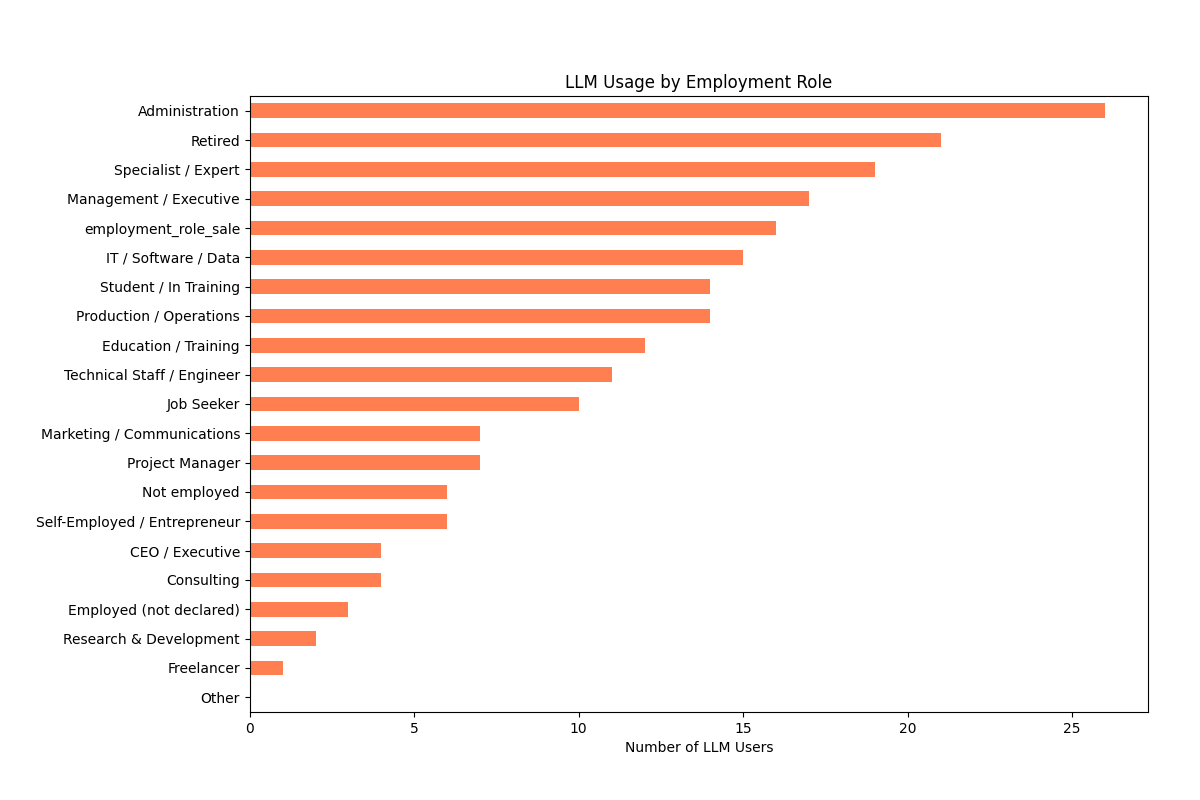
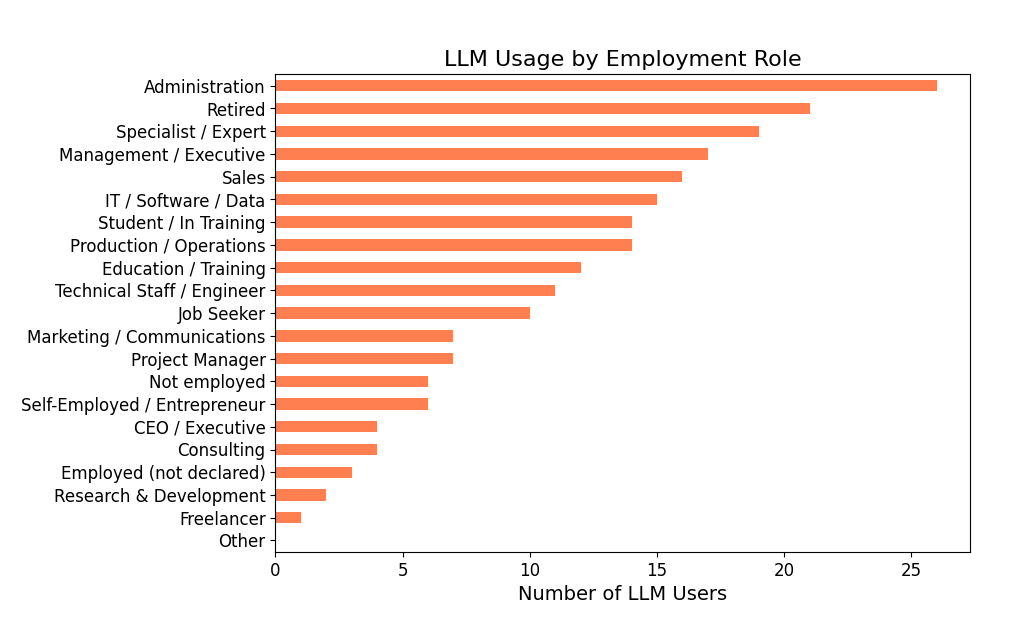
update employment diagram axis

Changed region(s): [[0.0, 0.0613, 0.9302, 0.9806], [0.7132, 0.1839, 0.7442, 0.2145]]

diff --git a/diagrams/education_llm_usage.py b/diagrams/education_llm_usage.py
@@ -4,7 +4,7 @@ import sqlite3
 import numpy as np
 
 # --- DB CONNECTION ---
-conn = sqlite3.connect("database.db")
+conn = sqlite3.connect("../survey/database.db")
 
 # --- LOAD DATA ---
 df = pd.read_sql("SELECT * FROM data_project", conn)
@@ -32,7 +32,7 @@ employment_role_labels = {
     "employment_role_expert": "Specialist / Expert",
     "employment_role_project_manager": "Project Manager",
     "employment_role_ingenieur": "Technical Staff / Engineer",
-    "employment_role_sales": "Sales",
+    "employment_role_sale": "Sales",
     "employment_role_marketing": "Marketing / Communications",
     "employment_role_administration": "Administration",
     "employment_role_research": "Research & Development",
@@ -82,8 +82,10 @@ role_counts = df[roles].sum().sort_values(ascending=False)
 role_counts.index = role_counts.index.map(lambda x: employment_role_labels.get(x, x))
 
 role_counts.plot(kind='barh', figsize=(12,8), color='coral')
-plt.xlabel("Number of LLM Users")
-plt.title("LLM Usage by Employment Role")
+plt.xlabel("Number of LLM Users", fontsize=14)
+plt.title("LLM Usage by Employment Role", fontsize=16)
+plt.xticks(fontsize=12)
+plt.yticks(fontsize=12)
 plt.gca().invert_yaxis()
 plt.show()
 
